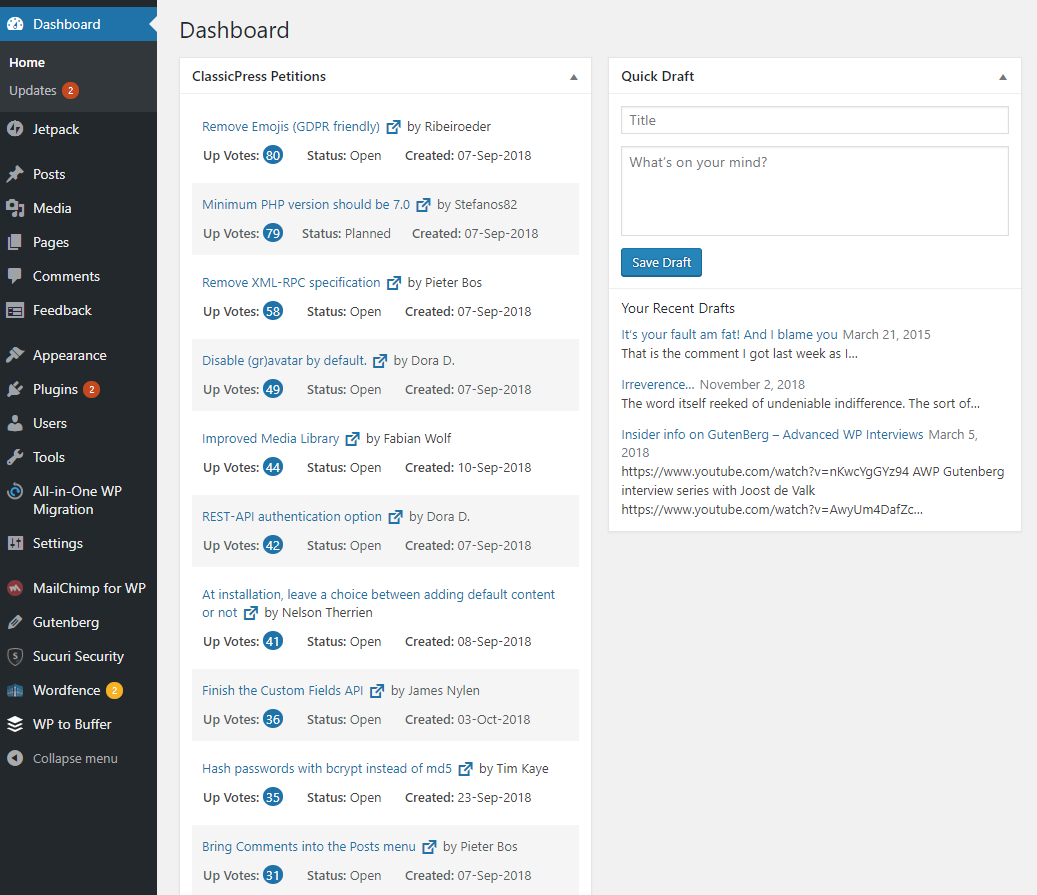
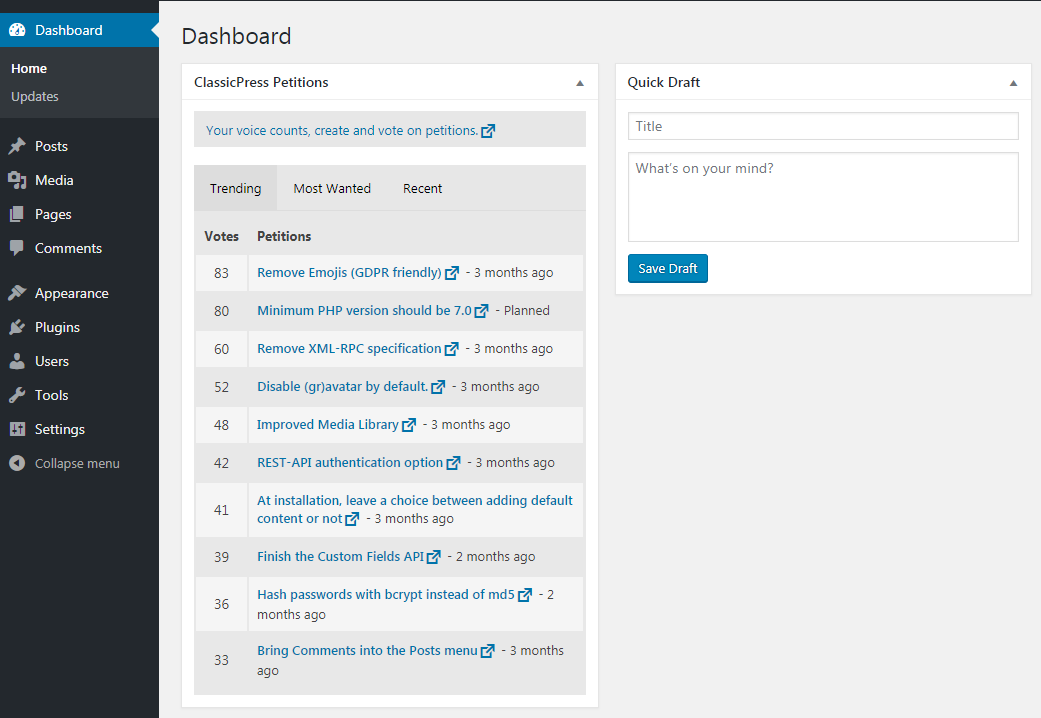
Clean up code HTML + CSS, Refactor PHP

diff --git a/assets/css/plugin.css b/assets/css/plugin.css
@@ -6,25 +6,19 @@
 
 #cp_petitions_dashboard_widget .sub,
 #cp_petitions_dashboard_widget .sub {
-  background: #e7e7e7;
+  background: #f5f5f5;
   padding: 10px 12px 6px;
 }
 
 /* Petitions list */
-.cp_petitions {
-  padding: 0;
-  margin: 0;
-}
-
-.cp_petitions table {
+table.cp_petitions {
   width: 100%;
   padding: 0;
-  margin: 0.5rem 0 0 0;
   border-spacing: 0;
 }
 
-tbody tr:nth-child(even){
-  background: #f5f5f5;
+tbody tr:nth-child(odd){
+  background: #fff;
 }
 
 .cp_petitions .votes-count {
@@ -43,12 +37,14 @@ tbody tr:nth-child(even){
 /* Style the tab */
 .tab {
     overflow: hidden;
-    background-color: #e7e7e7;
+    background-color: #f5f5f5;
+    border-bottom: 1px solid #ddd;
+
 }
 
 /* Style the buttons inside the tab */
 .tab button {
-    background-color: inherit;
+    background-color: #f5f5f5;
     float: left;
     border: none;
     outline: none;
@@ -59,16 +55,29 @@ tbody tr:nth-child(even){
 
 /* Change background color of buttons on hover */
 .tab button:hover {
-    background-color: #ddd;
+    background-color: #e8e8e8;
 }
 
 /* Create an active/current tablink class */
 .tab button.active {
-    background-color: #ccc;
+    background-color: #ddd;
 }
 
 /* Style the tab content */
 .tabcontent {
     display: none;
-    padding: 6px 12px;
+    padding: 6px 0px;
+    background-color: #f5f5f5;
+}
+
+thead {
+  font-weight: 700;
+}
+
+td {
+  padding: 8px;
+}
+
+td:nth-child(1) {
+  text-align: center;
 }

diff --git a/assets/js/tabs.js b/assets/js/tabs.js
@@ -13,5 +13,5 @@ function showTable(evt, type) {
 }
 
 window.addEventListener("load", function(){
-    showTable(event, 'Trending');
+    showTable(event, 'trending');
 });

diff --git a/ClassicPressPetitionsDashboard.php b/ClassicPressPetitionsDashboard.php
@@ -90,136 +90,112 @@ if ( ! class_exists( 'ClassicPressPetitionsDashboard' ) ) {
 					<a href="' . esc_url( $json['link'] ) . '" target="_blank" class="cp_petitions_link">' . esc_attr__( 'Your voice counts, create and vote on petitions.', $this->text_domain ) . '<span class="screen-reader-text">' . esc_attr__( '(opens in a new window)', $this->text_domain ) . '</span><span aria-hidden="true" class="dashicons dashicons-external"></span></a>
 				</div>';
 
-			echo <<<EOL
-			<div class="tab">
-			  <button class="tablinks" onclick="showTable(event, 'Trending')">Trending</button>
-			  <button class="tablinks" onclick="showTable(event, 'Recent')">Recent</button>
-			  <button class="tablinks" onclick="showTable(event, 'Most-Wanted')">Most Wanted</button>
-			</div>
+			echo '<br>';
+			
+			$list = array( 'trending', 'most-wanted', 'recent' );
 
+			//Tab Navigation head
+			echo '<div class="tab">';
 
-			<div id="Trending" class="tabcontent">
-			<table width="100%" class="cp_petitions">
-				<col width="10%">
-				<col width="90%">
-				<tr>
-					<th>Votes</th>
-					<th>Petitions</th>
-				</tr>
-			</div>
-EOL;
+			$first = 0;
 
-		foreach( $trending['data'] as $key => $value ) {
-		?>
-		<tr>
-			<th class="votes-count"><?php echo esc_attr( $value['votesCount'] ); ?></th>
+			foreach ( $list as $list_item ) { 
 
-			<th class="petition">
-				<a target="_blank" href="<?php echo esc_url( $value['link'] ) ?>">
-					<strong>
-						<?php echo esc_attr__( $value['title'], $this->text_domain )?>
-						<span class="screen-reader-text">' . esc_attr__( '(opens in a new window)', $this->text_domain ) . '</span>
-						<span aria-hidden="true" class="dashicons dashicons-external"></span>
-					</strong>
-				</a>
-				<?php
-				esc_attr__( 'by', $this->text_domain ) . ' ' . ucwords(  esc_attr( $value['createdBy'] ) );
-
-				if($value['status'] == "open"){
-					echo esc_attr__( ' - ', $this->text_domain ) . ' '; echo human_time_diff(  strtotime($value['createdAt']), current_time('timestamp') ) . ' ' . esc_attr__( 'ago', $this->text_domain );
-				}else{
-					echo esc_attr_e( ' - ', $this->text_domain ) . esc_attr_e( ucfirst( $value['status'] ), $this->text_domain );
+				if( $first++ == 0 ) {
+					echo '<button class="tablinks active" onclick="showTable(event, \'' . $list_item . '\')">' . ucwords( str_replace("-"," ", $list_item )) . '</button>';
+					$first = false;
+				} 
+				else {
+					echo '<button class="tablinks" onclick="showTable(event, \'' . $list_item . '\')">' . ucwords( str_replace("-"," ", $list_item )) . '</button>';
 				}
-				?>
-			</th>
-		</tr>
-		<?php
+				
+			}
+
+			echo '</div>';
+			
+			//Tab Navigation body loop
+			foreach ( $list as $list_item ) { 
+				echo '
+				<div id="' . $list_item . '" class="tabcontent">
+				<table class="cp_petitions">
+					<col width="10%">
+					<col width="90%">
+					<thead>
+						<tr>
+							<td>Votes</td>
+							<td>Petitions</td>
+						</tr>
+					</thead>
+				';
+
+				if ( $list_item == 'trending' ) {
+					foreach( $most_wanted['data'] as $key => $value ) {
+						?>
+						<tr>
+							<td class="votes-count"><?php echo esc_attr( $value['votesCount'] ); ?></td>
+			
+							<td class="petition">
+								<a target="_blank" href="<?php echo esc_url( $value['link'] ) ?>"><strong><?php echo esc_attr__( $value['title'], $this->text_domain )?><span class="screen-reader-text"><?php echo esc_attr__( '(opens in a new window)', $this->text_domain ); ?></span><span aria-hidden="true" class="dashicons dashicons-external"></span></strong>
+									</a><?php
+									esc_attr__( 'by', $this->text_domain ) . ' ' . ucwords(  esc_attr( $value['createdBy'] ) );
+				
+									if ( $value['status'] == "open" ){
+										echo esc_attr__( ' - ', $this->text_domain ) . ' ' . human_time_diff( strtotime( $value['createdAt'] ), current_time('timestamp') ) . ' ' . esc_attr__( 'ago', $this->text_domain );
+									} else{
+										echo esc_attr_e( ' - ', $this->text_domain ) . esc_attr_e( ucfirst( $value['status'] ), $this->text_domain );
+									} ?>
+							</td>
+						</tr>
+					<?php
+					}
+				}
+
+				if ( $list_item == 'recent' ) {
+					foreach( $recent['data'] as $key => $value ) {
+						?>
+						<tr>
+							<td class="votes-count"><?php echo esc_attr( $value['votesCount'] ); ?></td>
+			
+							<td class="petition">
+								<a target="_blank" href="<?php echo esc_url( $value['link'] ) ?>"><strong><?php echo esc_attr__( $value['title'], $this->text_domain )?><span class="screen-reader-text"><?php echo esc_attr__( '(opens in a new window)', $this->text_domain ); ?></span><span aria-hidden="true" class="dashicons dashicons-external"></span></strong>
+									</a><?php
+									esc_attr__( 'by', $this->text_domain ) . ' ' . ucwords(  esc_attr( $value['createdBy'] ) );
+				
+									if ( $value['status'] == "open" ){
+										echo esc_attr__( ' - ', $this->text_domain ) . ' ' . human_time_diff( strtotime( $value['createdAt'] ), current_time('timestamp') ) . ' ' . esc_attr__( 'ago', $this->text_domain );
+									} else{
+										echo esc_attr_e( ' - ', $this->text_domain ) . esc_attr_e( ucfirst( $value['status'] ), $this->text_domain );
+									} ?>
+							</td>
+						</tr>
+					<?php
+					}
+				}
+
+				if ( $list_item == 'most-wanted' ) {
+					foreach( $trending['data'] as $key => $value ) {
+					?>
+						<tr>
+							<td class="votes-count"><?php echo esc_attr( $value['votesCount'] ); ?></td>
+			
+							<td class="petition">
+								<a target="_blank" href="<?php echo esc_url( $value['link'] ) ?>"><strong><?php echo esc_attr__( $value['title'], $this->text_domain )?><span class="screen-reader-text"><?php echo esc_attr__( '(opens in a new window)', $this->text_domain ); ?></span><span aria-hidden="true" class="dashicons dashicons-external"></span></strong>
+									</a><?php
+									esc_attr__( 'by', $this->text_domain ) . ' ' . ucwords(  esc_attr( $value['createdBy'] ) );
+				
+									if ( $value['status'] == "open" ){
+										echo esc_attr__( ' - ', $this->text_domain ) . ' ' . human_time_diff( strtotime( $value['createdAt'] ), current_time('timestamp') ) . ' ' . esc_attr__( 'ago', $this->text_domain );
+									} else{
+										echo esc_attr_e( ' - ', $this->text_domain ) . esc_attr_e( ucfirst( $value['status'] ), $this->text_domain );
+									} ?>
+							</td>
+						</tr>
+					<?php
+					}
+				}
+				echo '</table></div>';	
+			}							
 		}
-
-		echo '</table></div>';
-
-		echo <<<EOL
-		<div id="Recent" class="tabcontent">
-		<table width="100%" class="cp_petitions">
-			<col width="10%">
-			<col width="90%">
-			<tr>
-				<th>Votes</th>
-				<th>Petitions</th>
-			</tr>
-		</div>
-EOL;
-
-foreach( $recent['data'] as $key => $value ) {
-?>
-<tr>
-	<th class="votes-count"><?php echo esc_attr( $value['votesCount'] ); ?></th>
-
-	<th class="petition">
-		<a target="_blank" href="<?php echo esc_url( $value['link'] ) ?>">
-			<strong>
-				<?php echo esc_attr__( $value['title'], $this->text_domain )?>
-				<span class="screen-reader-text">' . esc_attr__( '(opens in a new window)', $this->text_domain ) . '</span>
-				<span aria-hidden="true" class="dashicons dashicons-external"></span>
-			</strong>
-		</a>
-		<?php
-		esc_attr__( 'by', $this->text_domain ) . ' ' . ucwords(  esc_attr( $value['createdBy'] ) );
-
-		if($value['status'] == "open"){
-			echo esc_attr__( ' - ', $this->text_domain ) . ' '; echo human_time_diff(  strtotime($value['createdAt']), current_time('timestamp') ) . ' ' . esc_attr__( 'ago', $this->text_domain );
-		}else{
-			echo esc_attr_e( ' - ', $this->text_domain ) . esc_attr_e( ucfirst( $value['status'] ), $this->text_domain );
-		}
-		?>
-	</th>
-</tr>
-<?php
-}
-
-echo '</table></div>';
-
-echo <<<EOL
-		<div id="Most-Wanted" class="tabcontent">
-		<table width="100%" class="cp_petitions">
-			<col width="10%">
-			<col width="90%">
-			<tr>
-				<th>Votes</th>
-				<th>Petitions</th>
-			</tr>
-		</div>
-EOL;
-
-foreach( $most_wanted['data'] as $key => $value ) {
-?>
-<tr>
-	<th class="votes-count"><?php echo esc_attr( $value['votesCount'] ); ?></th>
-
-	<th class="petition">
-		<a target="_blank" href="<?php echo esc_url( $value['link'] ) ?>">
-			<strong>
-				<?php echo esc_attr__( $value['title'], $this->text_domain )?>
-				<span class="screen-reader-text">' . esc_attr__( '(opens in a new window)', $this->text_domain ) . '</span>
-				<span aria-hidden="true" class="dashicons dashicons-external"></span>
-			</strong>
-		</a>
-		<?php
-		esc_attr__( 'by', $this->text_domain ) . ' ' . ucwords(  esc_attr( $value['createdBy'] ) );
-
-		if($value['status'] == "open"){
-			echo esc_attr__( ' - ', $this->text_domain ) . ' '; echo human_time_diff(  strtotime($value['createdAt']), current_time('timestamp') ) . ' ' . esc_attr__( 'ago', $this->text_domain );
-		}else{
-			echo esc_attr_e( ' - ', $this->text_domain ) . esc_attr_e( ucfirst( $value['status'] ), $this->text_domain );
-		}
-		?>
-	</th>
-</tr>
-<?php
-}
-
-echo '</table></div>';
-}
 
 
 		/**

diff --git a/README.md b/README.md
@@ -7,9 +7,7 @@
 Find the latest petitions for ClassicPress growth.
 
 ## Screeshots
-![Screen shot of Top 10 ClassicPress Petitions in Dashboard](https://github.com/bahiirwa/ClassicPressPetitionsDashboard/blob/master/assets/images/Screenshot-1.png "Screen shot of Top 10 ClassicPress Petitions in Dashboard")
-
-![Screen shot of Action button on Top 10 ClassicPress Petitions in Dashboard](https://github.com/bahiirwa/ClassicPressPetitionsDashboard/blob/master/assets/images/Screenshot-2.png "Screen shot of Action button on Top 10 ClassicPress Petitions in Dashboard")
+![Screen shot of Top 10 ClassicPress Petitions in Dashboard with tab navigation](https://github.com/bahiirwa/ClassicPressPetitionsDashboard/blob/master/assets/images/Screenshot-1.png "Screen shot of Top 10 ClassicPress Petitions in Dashboard with tab navigation")
 
 ## Installation
 1. Upload the plugin to the `/wp-content/plugins/` directory ~~or install directly from the repository~~.
